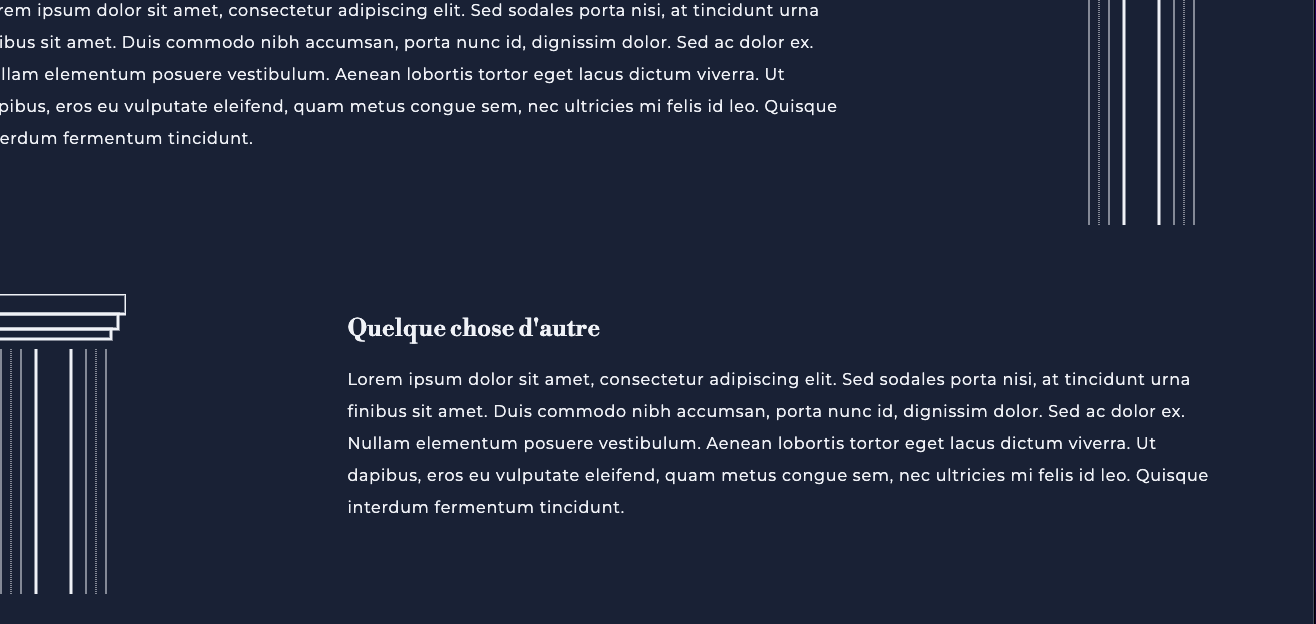
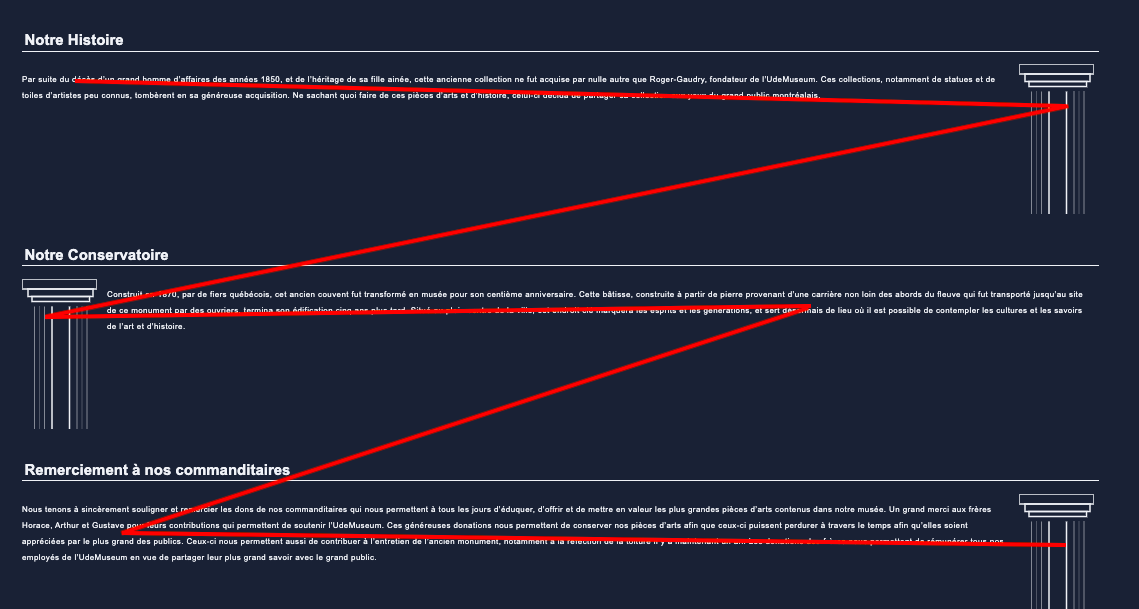
Modified proof

diff --git a/html/histoire.html b/html/histoire.html
@@ -89,10 +89,10 @@ maximo.mayorga@umontreal.ca
                 </svg>
             </div>
             <p>
-                Construit en 1870, par des nains de jardins, cet ancien couvent fut transformé en musée pour son
+                Construit en 1870, par de fiers québécois, cet ancien couvent fut transformé en musée pour son
                 centième
                 anniversaire. Cette bâtisse, construite à partir de pierre provenant d’une carrière non loin des abords
-                du fleuve qui fut transporté jusqu’au site de ce monument par des mouches à fruits, termina son
+                du fleuve qui fut transporté jusqu’au site de ce monument par des ouvriers, termina son
                 édification cinq ans plus tard. Situé au plein centre de la ville, cet endroit clé marquera les esprits
                 et les générations, et sert désormais de lieu où il est possible de contempler les cultures et les
                 savoirs de l’art et d’histoire.

diff --git a/html/plan.html b/html/plan.html
@@ -91,7 +91,7 @@ maximo.mayorga@umontreal.ca
                 <p>
                     Tel: 514 636-6666 <br>
                     Fax: 514 626-6666 <br>
-                    Couriel: UdeMuseum@umontreal.ca <br>
+                    Couriel: <a class="lien" href="mailto:UdeMuseum@umontreal.ca">UdeMuseum@umontreal.ca</a><br>
                     Par pigeon voyageur: Lundi au mercredi, de 11h30 à 13h00
                 </p>
             </div>
